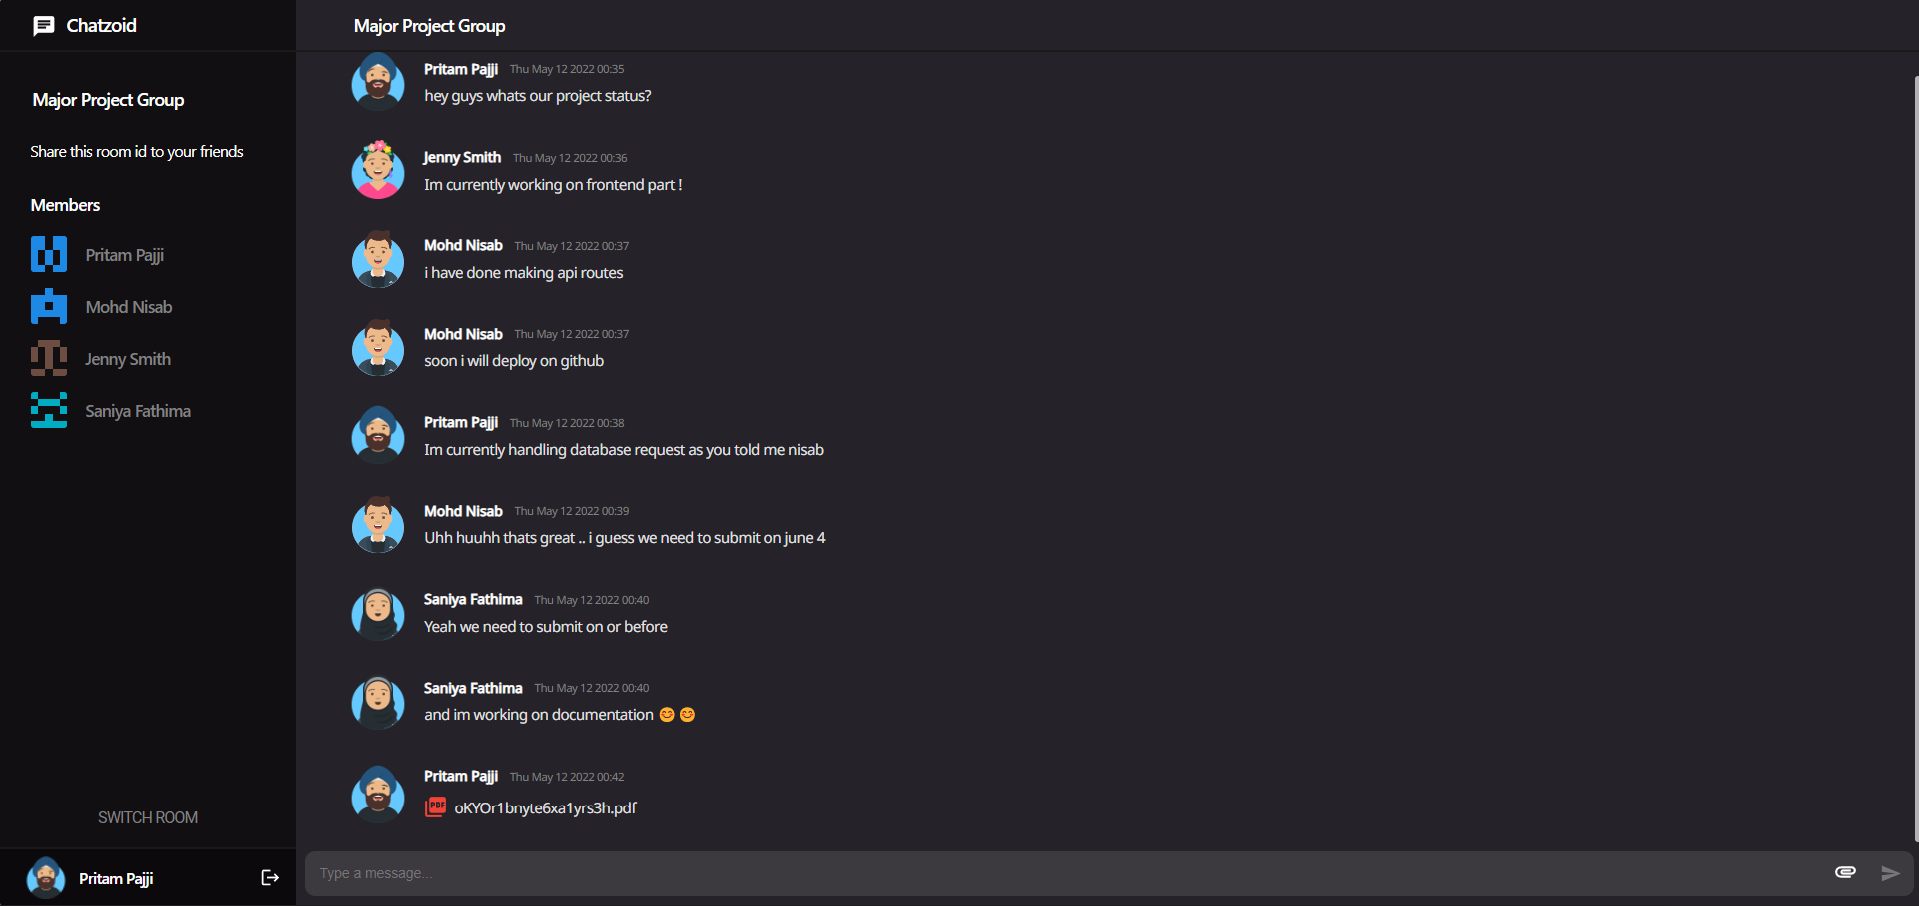
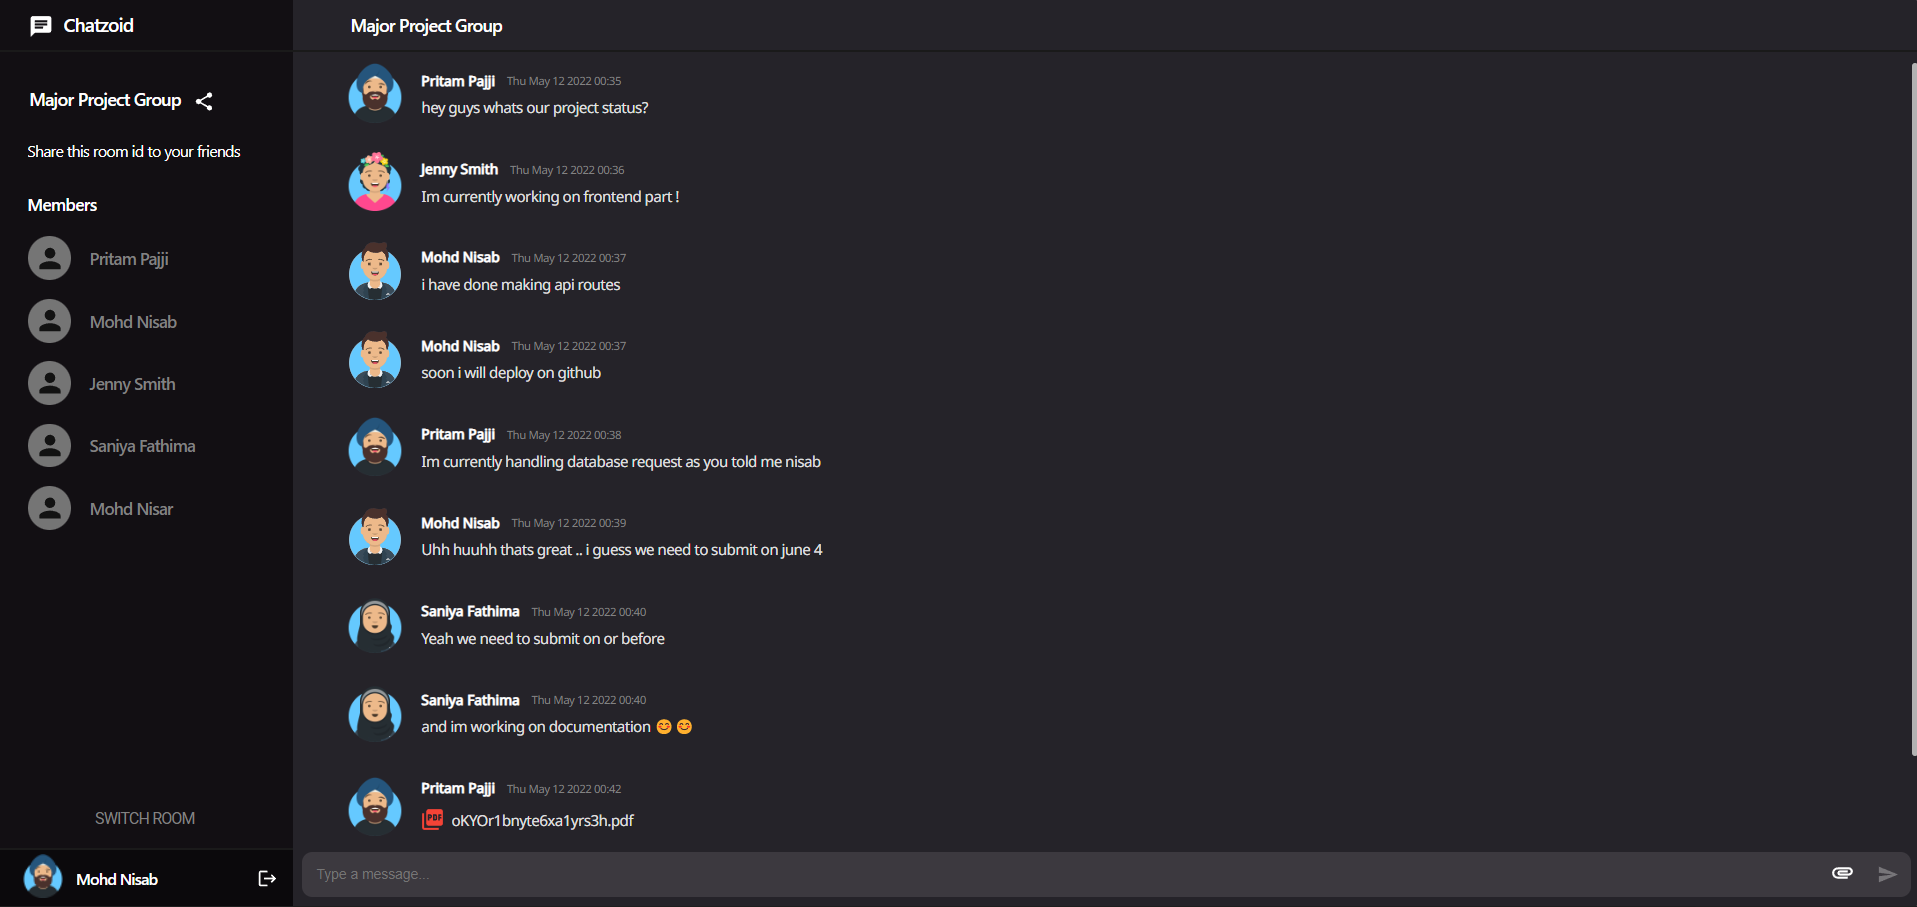
bug fixes

diff --git a/src/Leftbar.js b/src/Leftbar.js
@@ -8,7 +8,7 @@ import MenuIcon from '@mui/icons-material/Menu';
 import './css/Responsive.css'
 import ArrowBackIosNewIcon from '@mui/icons-material/ArrowBackIosNew';
 // import { where, getDocs, limit } from "firebase/firestore";
-
+import ShareIcon from '@mui/icons-material/Share';
 
 export const Leftbar = (props) => {
   const [show, setShow] = useState(false)
@@ -63,7 +63,7 @@ export const Leftbar = (props) => {
         </div>
 
         <div className="rommspecificidandp" style={{ display: 'flex', flexDirection: 'row', alignItems: 'center', marginTop: '34px' }}>
-          <p style={{ color: 'white', font: 'Noto Sans', fontWeight: '500', fontStyle: 'normal', fontSize: '17px', letterSpacing: '-0.035em', marginLeft: '31px', marginRight: '26px' }}>{props.roomid}</p>
+          <p style={{ color: 'white', font: 'Noto Sans', fontWeight: '500', fontStyle: 'normal', fontSize: '17px', letterSpacing: '-0.035em', marginLeft: '31px', marginRight: '26px' ,display:'flex',flexDirection:'row',alignItems:'center'}}>{props.roomid}<ShareIcon color="diabled" style={{marginLeft:'12px', width: '21.25px',marginBottom:'-6px'}}/></p>
 
         </div>
 
@@ -92,7 +92,7 @@ export const Leftbar = (props) => {
           </Button>
         </div>
         <div className="userdetails" style={{ marginTop: 'auto', display: 'flex', flexDirection: 'row', alignItems: 'center', position: 'absolute', bottom: '0px', height: '55px', backgroundColor: '#0B090C', width: '100%', borderTop: '2px solid rgb(26,26,26)' }}>
-          <img src={props.photo} style={{ width: '40px', height: '42px', borderRadius: '7px', marginLeft: '24px' }} alt="" />
+          <img src={props.photo} style={{ width: '40px', height: '42px', borderRadius: '7px', marginLeft: '24px',marginTop:'-4.5px' }} alt="" />
           <h5 style={{ marginLeft: '12px', color: 'white', font: 'Noto Sans', fontWeight: '500', fontStyle: 'normal', fontSize: '15px', letterSpacing: '-0.035em', zIndex: '99' }}>{props.name}</h5>
           <button onClick={() => { props.logout(); }} style={{ cursor: 'pointer', width: 'fit-content%', marginLeft: '221px', outline: 'none', border: 'none', backgroundColor: 'transparent', position: 'absolute', left: '29px',marginTop:'4px' }}><LogoutIcon style={{ width: '20px', color: 'white' }}></LogoutIcon></button>
         </div>

diff --git a/src/Login.js b/src/Login.js
@@ -41,7 +41,7 @@ export const Login = (props) => {
         setOpen1(false);
     };
     // const [i, setI] = useState(0)
-    const [photo, setPhoto] = useState('https://avataaars.io/?avatarStyle=Circle&topType=ShortHairShortWaved&accessoriesType=Blank&hairColor=BrownDark&facialHairType=Blank&clotheType=BlazerSweater&clotheColor=Pink&eyeType=Default&eyebrowType=Default&mouthType=Smile&skinColor=Light')
+    const [photo, setPhoto] = useState('https://firebasestorage.googleapis.com/v0/b/chat-app-f81cf.appspot.com/o/avatars%2Favataaars%20(5).png?alt=media&token=ac625817-f05e-4e16-9751-00d972bf7eb6')
     const loginstyle = {
         display: 'flex',
         flexDirection: 'column',
